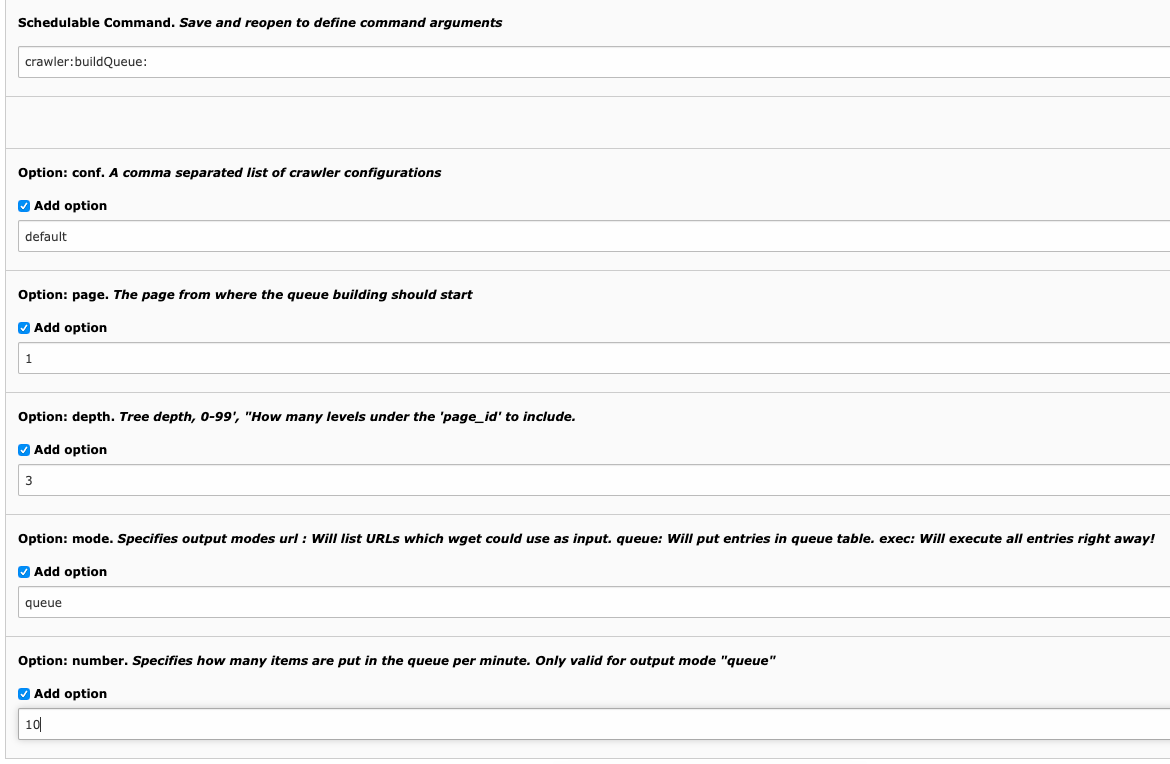
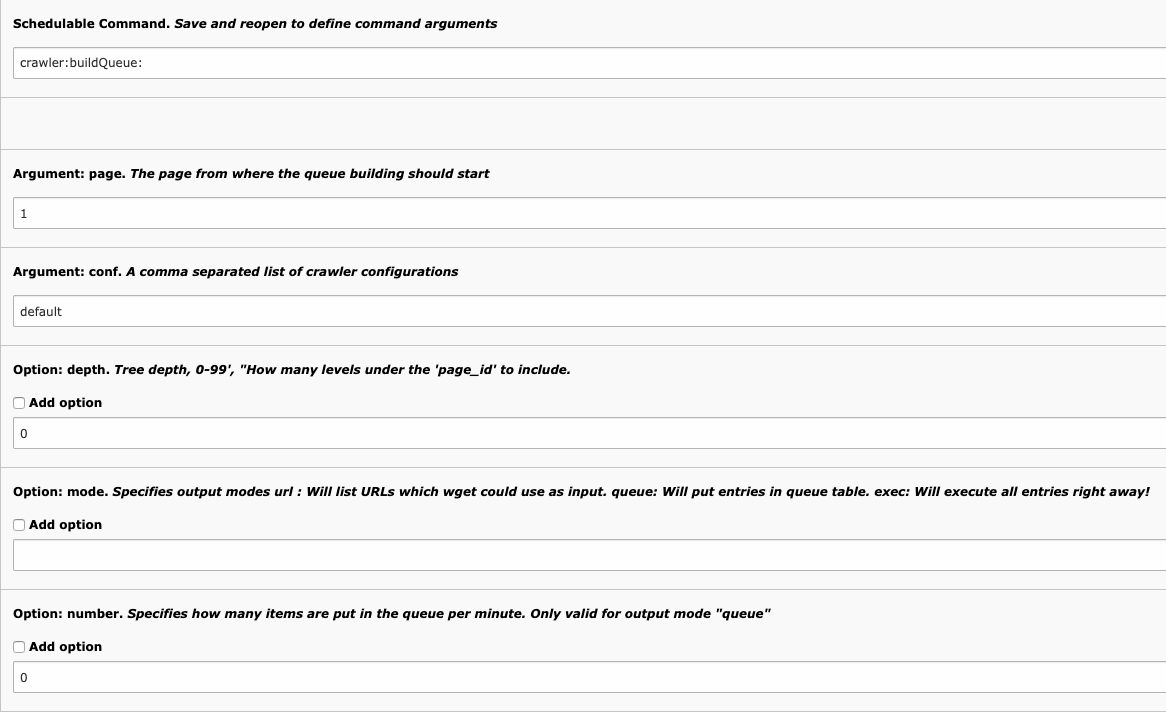
[DOC] Update documentation + screenshots (#448)

Changed region(s): [[0.0, 0.1851, 1.0, 1.0], [0.0, 0.0, 0.4322, 0.1234]]

diff --git a/Documentation/ExecutingTheQueue/BuildingAndExecutingQueueRightAway(fromCli)/Index.rst b/Documentation/ExecutingTheQueue/BuildingAndExecutingQueueRightAway(fromCli)/Index.rst
@@ -26,7 +26,7 @@ The script to use is this:
 
 ::
 
-   [pathToYourTYPO3Installation-composer-bin-dir]/typo3cms crawler:buildqueue
+   [pathToYourTYPO3Installation-composer-bin-dir]/typo3cms crawler:buildQueue <startPageUid> <configurationKeys>
 
 If you run it you will see a list of options which explains usage.
 
@@ -35,7 +35,7 @@ If you run it you will see a list of options which explains usage.
 .. container:: table-row
 
    Property
-         --startpage <startpage>
+         <startPageUid>
 
    Data type
          integer
@@ -49,7 +49,7 @@ If you run it you will see a list of options which explains usage.
 .. container:: table-row
 
    Property
-         --conf <configurationKeys>
+         <configurationKeys>
 
    Data type
          string
@@ -58,7 +58,7 @@ If you run it you will see a list of options which explains usage.
          Configurationkey:
 
          Comma separated list of your crawler configurations. If you use the
-         crwaler configuration records you have to use the “name” if you're
+         crawler configuration records you have to use the "name" if you're
          still using the old TypoScript based configuration you have to use the
          configuration key which is also a string.
 
@@ -66,7 +66,7 @@ If you run it you will see a list of options which explains usage.
 
          ::
 
-            -conf re-crawl-pages,re-crawl-news
+            re-crawl-pages,re-crawl-news
 
    Default
          n/a
@@ -128,34 +128,45 @@ If you run it you will see a list of options which explains usage.
 
 .. ###### END~OF~TABLE ######
 
-Basically you must pass options similar to those you would otherwise
-select using the Site Crawler when you set up a crawler job (“Start
-Crawling”). Here is an example:
+Example
+-------
+
+We want to crawl pages under the page "Content Examples" (uid=6) and 2 levels down, with the default crawler configuration.
+
+This is done like this in the backend.
 
 .. image:: /Images/backend_startcrawling.png
-
-We want to publish pages under the page “ID=3 (“Contact” page
-selected) and 1 level down (“1 level” selected) to static files
-(Processing Instruction “Publish static [tx\_staticpub\_publish]”
-selected). Four URLs are generated based on the configuration (see
-right column in table).
 
 To do the same with the CLI script you run this:
 
 ::
 
-   [pathToYourTYPO3Installation-composer-bin-dir]/typo3cms crawler:buildqueue --startpage 3 --depth 1 --conf tx_staticpub_publish
+   [pathToYourTYPO3Installation-composer-bin-dir]/typo3 crawler:buildqueue 6 default --depth 2
 
 And this is the output:
 
 ::
 
-   [22-03 15:29:00] ?id=3
-   [22-03 15:29:00] ?id=3&L=1
-   [22-03 15:29:00] ?id=5
-   [22-03 15:29:00] ?id=4
+    38 entries found for processing. (Use "mode" to decide action):
 
-At this point you have three options for “action”:
+    [10-04-20 10:35] https://crawler-typo3v9.ddev.site/content-examples/overview
+    [10-04-20 10:35] https://crawler-typo3v9.ddev.site/content-examples/text/rich-text
+    [10-04-20 10:35] https://crawler-typo3v9.ddev.site/content-examples/text/headers
+    [10-04-20 10:35] https://crawler-typo3v9.ddev.site/content-examples/text/bullet-list
+    [10-04-20 10:35] https://crawler-typo3v9.ddev.site/content-examples/text/text-with-teaser
+    [10-04-20 10:35] https://crawler-typo3v9.ddev.site/content-examples/text/text-and-icon
+    [10-04-20 10:35] https://crawler-typo3v9.ddev.site/content-examples/text/text-in-columns
+    [10-04-20 10:35] https://crawler-typo3v9.ddev.site/content-examples/text/list-group
+    [10-04-20 10:35] https://crawler-typo3v9.ddev.site/content-examples/text/panel
+    [10-04-20 10:35] https://crawler-typo3v9.ddev.site/content-examples/text/table
+    [10-04-20 10:35] https://crawler-typo3v9.ddev.site/content-examples/text/quote
+    [10-04-20 10:35] https://crawler-typo3v9.ddev.site/content-examples/media/audio
+    [10-04-20 10:35] https://crawler-typo3v9.ddev.site/content-examples/media/text-and-images
+    ...
+    [10-04-20 10:36] https://crawler-typo3v9.ddev.site/content-examples/and-more/frames
+
+
+At this point you have three options for "action":
 
 - Commit the URLs to the queue and let the cron script take care of it
   over time. In this case there is an option for setting the amount of
@@ -163,24 +174,69 @@ At this point you have three options for “action”:
   useful if you would like to submit a job to the cron script based
   crawler everyday.
 
-  - Add “--mode queue”
+  - Add "--mode queue"
+  - This is also the **default** setting, so unless you want it to be explicit visible, you don't need to add it.
 
 - List full URLs for use with wget or similar. Corresponds to pressing
-  the “Download URLs” button in the backend module.
+  the "Download URLs" button in the backend module.
 
-  - Add “--mode url”
+  - Add "--mode url"
 
-.. image:: /Images/cli_addtoque.png
+::
+
+    $ bin/typo3 crawler:buildqueue 6 default --depth 2 --mode url
+    https://crawler-typo3v9.ddev.site/content-examples/overview
+    https://crawler-typo3v9.ddev.site/content-examples/text/rich-text
+    https://crawler-typo3v9.ddev.site/content-examples/text/headers
+    https://crawler-typo3v9.ddev.site/content-examples/text/bullet-list
+    https://crawler-typo3v9.ddev.site/content-examples/text/text-with-teaser
+    https://crawler-typo3v9.ddev.site/content-examples/text/text-and-icon
+    https://crawler-typo3v9.ddev.site/content-examples/text/text-in-columns
+    https://crawler-typo3v9.ddev.site/content-examples/text/list-group
+    https://crawler-typo3v9.ddev.site/content-examples/text/panel
+    ...
 
 - Commit and execute the queue right away. This will still put the jobs
   into the queue but execute them immediately. If server load is no
   issue to you and if you are in a hurry this is the way to go! It also
-  feels much more like the “command-line-way” of things. And the status
+  feels much more like the "command-line-way" of things. And the status
   output is more immediate than in the queue.
 
-  - Add “--mode exec”
+  - Add "--mode exec"
 
-.. image:: /Images/cli_processque.png
+::
 
-The examples above assume that “staticpub” is installed.
+    $ bin/typo3 crawler:buildqueue 6 default --depth 2 --mode exec
+    https://crawler-typo3v9.ddev.site/content-examples/overview
+    https://crawler-typo3v9.ddev.site/content-examples/text/rich-text
+    https://crawler-typo3v9.ddev.site/content-examples/text/headers
+    https://crawler-typo3v9.ddev.site/content-examples/text/bullet-list
+    https://crawler-typo3v9.ddev.site/content-examples/text/text-with-teaser
+    https://crawler-typo3v9.ddev.site/content-examples/text/text-and-icon
+    https://crawler-typo3v9.ddev.site/content-examples/text/text-in-columns
+    https://crawler-typo3v9.ddev.site/content-examples/text/list-group
+    https://crawler-typo3v9.ddev.site/content-examples/text/panel
+    ...
+    Processing
+
+    https://crawler-typo3v9.ddev.site/content-examples/overview () =>
+
+    OK:
+            User Groups:
+
+    https://crawler-typo3v9.ddev.site/content-examples/text/rich-text () =>
+
+    OK:
+            User Groups:
+
+    https://crawler-typo3v9.ddev.site/content-examples/text/headers () =>
+
+    OK:
+            User Groups:
+
+    https://crawler-typo3v9.ddev.site/content-examples/text/bullet-list () =>
+
+    OK:
+            User Groups:
+    ...
 

diff --git a/Documentation/ExecutingTheQueue/ExecutingQueueWithCron-job/Index.rst b/Documentation/ExecutingTheQueue/ExecutingQueueWithCron-job/Index.rst
@@ -16,29 +16,29 @@
 Executing queue with cron-job
 ^^^^^^^^^^^^^^^^^^^^^^^^^^^^^
 
-A “cron-job” refers to a script that runs on the server with time
+A "cron-job" refers to a script that runs on the server with time
 intervals.
 
 For this to become reality you must ideally have a cron-job set up.
 This assumes you are running on Unix architecture of some sort. The
-crontab is often edited by “crontab -e” and you should insert a line
+crontab is often edited by "crontab -e" and you should insert a line
 like this:
 
 ::
 
-   * * * * * [pathToYourTYPO3Installation-composer-bin-dir]/typo3cms crawler:buildqueue > /dev/null
+   * * * * * [pathToYourTYPO3Installation-composer-bin-dir]/typo3cms crawler:buildqueue <startpage> <configurationKeys> > /dev/null
 
 This will run the script every minute. You should try to run the
 script on the command line first to make sure it runs without any
 errors. If it doesn't output anything it was successful.
 
-You will need to have a user called “\_cli\_” and you must have PHP installed
+You will need to have a user called "\_cli\_" and you must have PHP installed
 as a CGI script as well in /usr/bin/.
 
-The user “\_cli\_” is created by the framework on demand if it does not exist
+The user "\_cli\_" is created by the framework on demand if it does not exist
 at the first command line call.
 
-In the “CLI status” menu of the Site Crawler info module you can see
+In the "CLI status" menu of the Site Crawler info module you can see
 the status:
 
 .. image:: /Images/backend_processlist.png
@@ -50,12 +50,12 @@ script as you should use it on the command line / in the crontab)
 If the cron-script stalls there is a default delay of 1 hour before a
 new process will announce the old one dead and run a new one. If a
 cron-script takes more than 1 minute and thereby overlaps the next
-process, the next process will NOT start if it sees that the “lock-
-file” exists (unless that hour has passed).
+process, the next process will NOT start if it sees that the "lock-
+file" exists (unless that hour has passed).
 
 The reason why it works like this is to make sure that overlapping
 calls to the crawler CLI script will not run parallel processes. So
 the second call will just exit if it finds in the status file that the
 process is already running. But of course a crashed script will fail
-to set the status to “end” and hence this situation can occur.
+to set the status to "end" and hence this situation can occur.
 

diff --git a/Documentation/Features/PollableProcessingInstructions/Index.rst b/Documentation/Features/PollableProcessingInstructions/Index.rst
@@ -18,14 +18,14 @@
 Pollable processing instructions
 ^^^^^^^^^^^^^^^^^^^^^^^^^^^^^^^^
 
-Some processing instructions are never executed on the “client side”
+Some processing instructions are never executed on the "client side"
 (the TYPO3 frontend that is called by the crawler). This happens for
 example if a try to staticpub a page containing non-cacheable
 elements. That bad thing about this is, that staticpub doesn't have
 any chance to tell that something went wrong and why. That's why we
-introduced the “pollable processing instructions” feature. You can
+introduced the "pollable processing instructions" feature. You can
 define in the ext\_localconf.php file of your extension that this
-extension should be “pollable” bye adding following line:
+extension should be "pollable" bye adding following line:
 
 ::
 
@@ -33,9 +33,9 @@ extension should be “pollable” bye adding following line:
 
 In this case the crawler expects the extension to tell if everything
 was ok actively, assuming that something went wrong (and displaying
-this in the log) is no “success message” was found.
+this in the log) is no "success message" was found.
 
-In your extension than simple write your “ok” status by calling this:
+In your extension than simple write your "ok" status by calling this:
 
 ::
 

diff --git a/Documentation/Introduction/WhatDoesItDo/Index.rst b/Documentation/Introduction/WhatDoesItDo/Index.rst
@@ -20,13 +20,13 @@ What does it do?
 
 Uses a command line cron-script to traverse a queue of actions
 (alternative option: executing all immediately), eg. requesting a URL
-but could also be calling of a function. The name “crawler” refers to
+but could also be calling of a function. The name "crawler" refers to
 this action: That a URL in the queue is requested.
 
 Features an API that other extensions can plug into. Example of this
-is “indexed\_search” which uses crawler to index content defined by
+is "indexed\_search" which uses crawler to index content defined by
 its Indexing Configurations. Other extensions supporting it are
-“staticpub” (publishing to static pages) or “cachemgm” (allows
+"staticpub" (publishing to static pages) or "cachemgm" (allows
 recaching of pages).
 
 The requests of URLs is specially designed to request TYPO3 frontends

diff --git a/Documentation/Features/MultiprocessSupport/Index.rst b/Documentation/Features/MultiprocessSupport/Index.rst
@@ -22,9 +22,12 @@ If you want to optimize the crawling process for speed (instead of low
 server stress), maybe because the machine is a dedicated staging
 machine you should experiment with the new mulitprocess features.
 
-In the exension manager you can set how many processes are allowed to
+In the extension settings you can set how many processes are allowed to
 run at the same time, how many queue entries a process should grab and
 how long a process is allowed to run. Then run one (or even more)
-crawling processes per minute. You'll be able to speed up the crawler
-by factor 10!
+crawling processes per minute. You'll be able to speed up the crawler quite a lot.
+
+But choose your settings carefully as it puts loads on the server.
+
+.. image:: /Images/crawler_settings_processLimit.png
 

diff --git a/Documentation/ExecutingTheQueue/Index.rst b/Documentation/ExecutingTheQueue/Index.rst
@@ -26,7 +26,7 @@ for several reasons;
 
 - To time the requests for nightly processing
 
-- And simply to avoid “max\_execution\_time” of PHP to limit processing
+- And simply to avoid "max\_execution\_time" of PHP to limit processing
   to 30 seconds !
 
 
@@ -38,6 +38,5 @@ for several reasons;
    RunningViaCommandController/Index
    ExecutingQueueWithCron-job/Index
    RunViaBackend/Index
-   AddingEntriesToTheQueueByContextMenue/Index
    BuildingAndExecutingQueueRightAway(fromCli)/Index
 

diff --git a/Documentation/Configuration/ConfigurationRecords/Index.rst b/Documentation/Configuration/ConfigurationRecords/Index.rst
@@ -57,5 +57,7 @@ Fields and their pageTS equivalents
 
 - **Exclude pages** - comma separated list of page ids which should not be crawled
 
-.. image:: /Images/backend_configurationrecord.png
+.. image:: /Images/backend_configurationrecord_1.png
+.. image:: /Images/backend_configurationrecord_2.png
+.. image:: /Images/backend_configurationrecord_3.png
 

diff --git a/Documentation/Introduction/Screenshots/Index.rst b/Documentation/Introduction/Screenshots/Index.rst
@@ -17,7 +17,7 @@ Screenshots
 ^^^^^^^^^^^
 
 Has a backend module which displays the queue and log and allows
-execution and status check of the “cronscript” from the backend for
+execution and status check of the "cronscript" from the backend for
 testing purposes.
 
 Here is the CLI (Command Line Interface = shell script = cron script)

diff --git a/Documentation/Introduction/Index.rst b/Documentation/Introduction/Index.rst
@@ -23,6 +23,5 @@ Introduction
    :glob:
 
    WhatDoesItDo/Index
-   WhatsNew/Index
    Screenshots/Index
 
